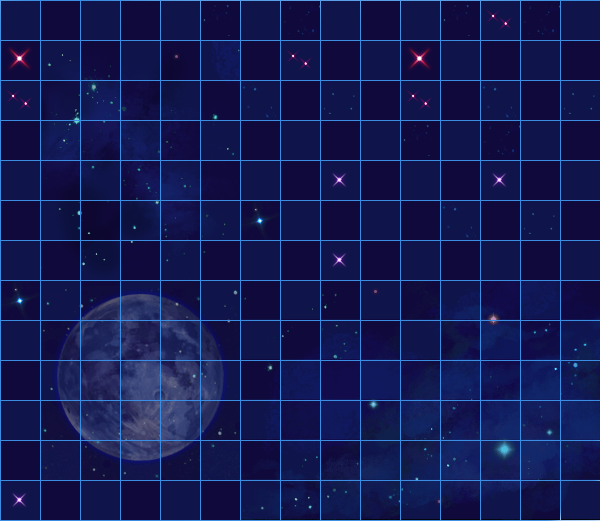
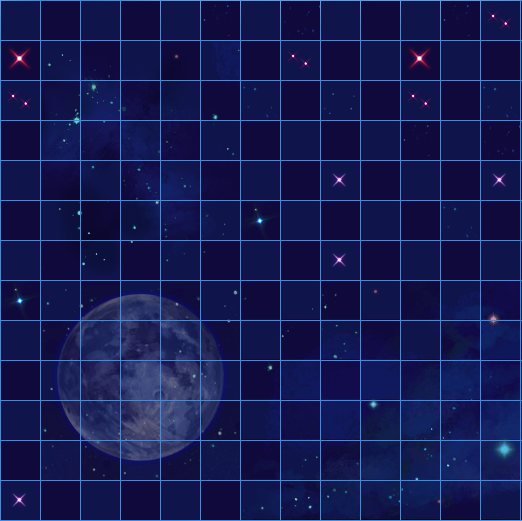
feat(map): Modify to 13 x 13

diff --git a/lib/maps/map1.py b/lib/maps/map1.py
@@ -8,5 +8,5 @@ class Map1(BaseMap):
     def __init__(self):
         super().__init__()
         self.img_path = Path('resources/maps/1/back.png').resolve()
-        self.img_size = (600, 520)
+        self.img_size = (520, 520)
         self.img = self.LoadImg()
